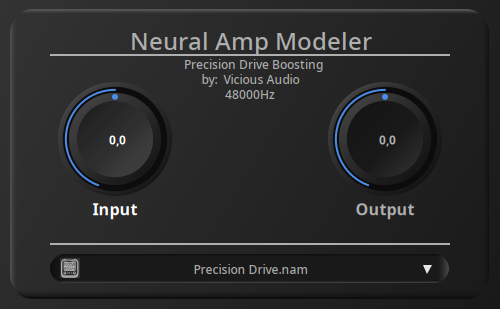
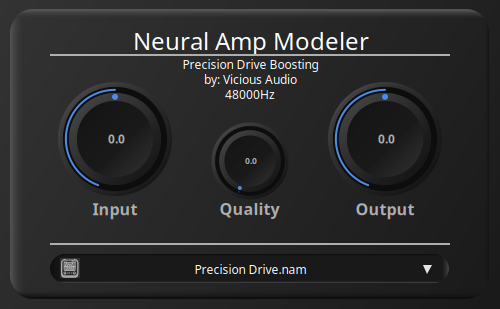
fixed installation and screenshot

diff --git a/README.md b/README.md
@@ -26,7 +26,7 @@ with sudo, use sudo as well to install the GUI, if you've installed [Neural Amp 
 into your home .lv2 folder, install the GUI without using sudo.
 
 - make install # will install into ~/.lv2 ... AND/OR....
-- sudo make install # will install into /usr/lib/lv2
+- sudo make install # will install into /usr/lib/lv2 or /usr/local/lib/lv2 if the [Neural Amp Modeler LV2 plugin](https://github.com/mikeoliphant/neural-amp-modeler-lv2) was found there.
 
 ## Uninstall
 